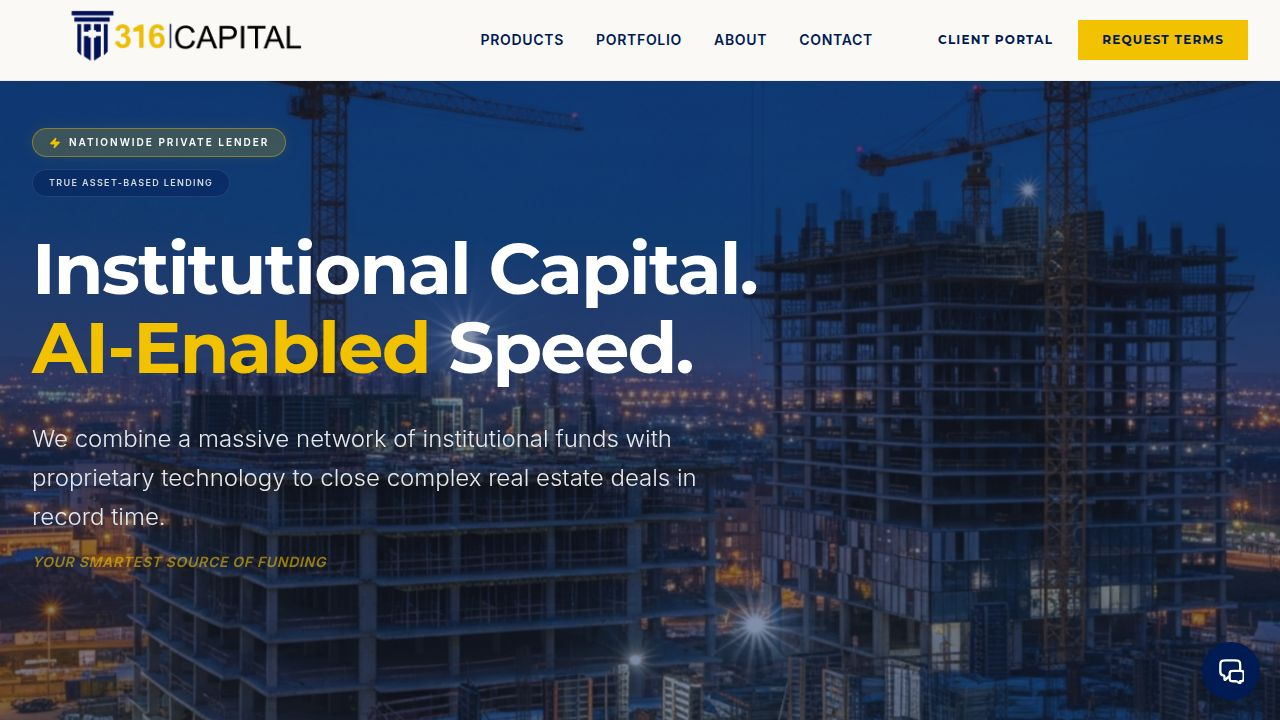
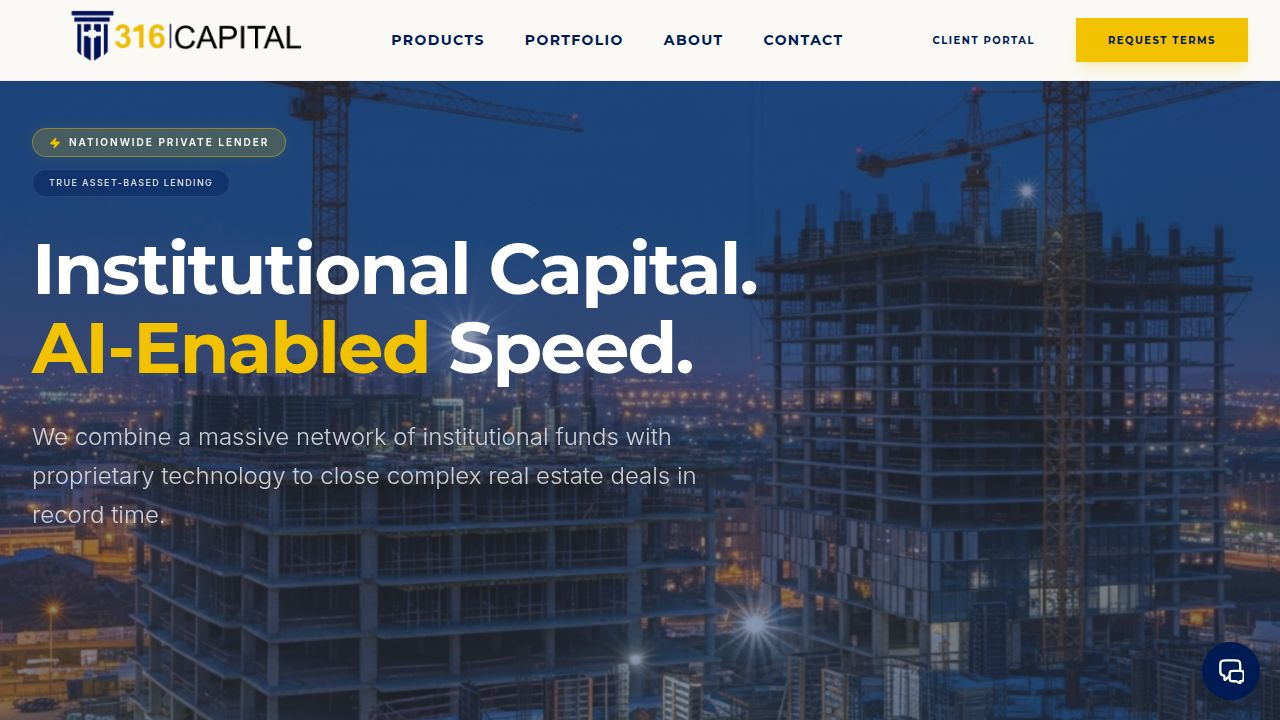
Improve navigation bar styling and font consistency
Updates navbar component to use Montserrat font-heading, increases button padding and tracking, and adjusts button shadows and hover effects for a more premium feel.

Replit-Commit-Author: Agent
Replit-Commit-Session-Id: 30212149-840c-46f2-9c2e-b2e7999323b0
Replit-Commit-Checkpoint-Type: full_checkpoint
Replit-Commit-Event-Id: c1346d3f-a8ca-439f-a1d2-ee1779f2ba53
Replit-Commit-Screenshot-Url: https://storage.googleapis.com/screenshot-production-us-central1/8a4d1e78-76b3-4b1b-9b1b-6099a4dc3aaa/30212149-840c-46f2-9c2e-b2e7999323b0/Tf4BliL
Replit-Helium-Checkpoint-Created: true

diff --git a/client/src/components/layout/navbar.tsx b/client/src/components/layout/navbar.tsx
@@ -33,23 +33,23 @@ export function Navbar() {
           </div>
 
           {/* Desktop Nav */}
-          <div className="hidden md:flex items-center space-x-8">
-            <a href="#products" className="text-sm font-semibold text-[#001A54] hover:text-[#F2C100] transition-colors uppercase tracking-wider">Products</a>
-            <a href="#portfolio" className="text-sm font-semibold text-[#001A54] hover:text-[#F2C100] transition-colors uppercase tracking-wider">Portfolio</a>
-            <a href="#about" className="text-sm font-semibold text-[#001A54] hover:text-[#F2C100] transition-colors uppercase tracking-wider">About</a>
-            <a href="#contact" className="text-sm font-semibold text-[#001A54] hover:text-[#F2C100] transition-colors uppercase tracking-wider">Contact</a>
+          <div className="hidden md:flex items-center space-x-10">
+            <a href="#products" className="text-sm font-bold text-[#001A54] hover:text-[#F2C100] transition-colors uppercase tracking-widest font-heading">Products</a>
+            <a href="#portfolio" className="text-sm font-bold text-[#001A54] hover:text-[#F2C100] transition-colors uppercase tracking-widest font-heading">Portfolio</a>
+            <a href="#about" className="text-sm font-bold text-[#001A54] hover:text-[#F2C100] transition-colors uppercase tracking-widest font-heading">About</a>
+            <a href="#contact" className="text-sm font-bold text-[#001A54] hover:text-[#F2C100] transition-colors uppercase tracking-widest font-heading">Contact</a>
             
-            <div className="flex items-center space-x-2 ml-4">
+            <div className="flex items-center space-x-4 ml-6">
               <Button 
                 variant="ghost" 
-                className="text-[#001A54] hover:text-[#F2C100] hover:bg-[#001A54]/5 font-heading font-bold rounded-none px-4 uppercase tracking-widest text-xs h-10"
+                className="text-[#001A54] hover:text-[#F2C100] hover:bg-[#001A54]/5 font-heading font-black rounded-none px-6 uppercase tracking-[0.15em] text-[10px] h-11 border border-transparent hover:border-[#F2C100]/20"
                 onClick={() => window.open('https://316cap.app.clientclub.net/', '_blank')}
                 data-testid="button-auth"
               >
                 {authText}
               </Button>
               <Button 
-                className="bg-[#F2C100] hover:bg-[#F2C100]/90 text-[#001A54] font-heading font-bold border-none rounded-none px-6 h-10 uppercase tracking-widest text-xs"
+                className="bg-[#F2C100] hover:bg-[#F2C100]/90 text-[#001A54] font-heading font-black border-none rounded-none px-8 h-11 uppercase tracking-[0.15em] text-[10px] shadow-lg shadow-[#F2C100]/20 transition-all hover:scale-105"
                 onClick={() => window.open('https://www.316cap.com/widget/survey/wdfHkbrE4TWjYAndh1w1', '_blank')}
                 data-testid="button-request-terms"
               >
